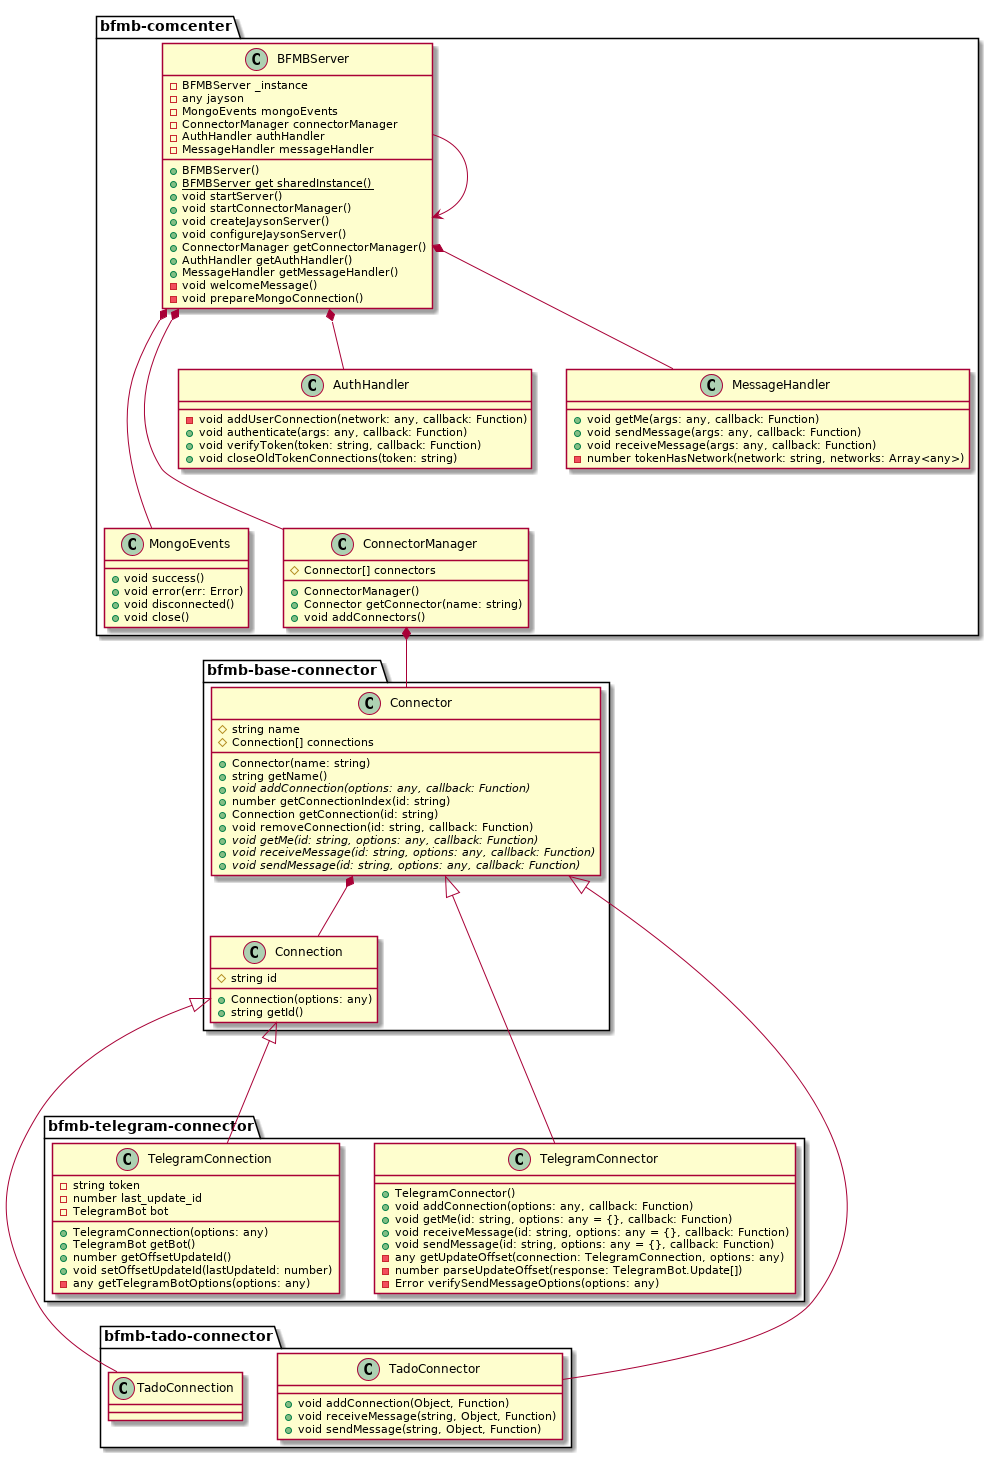
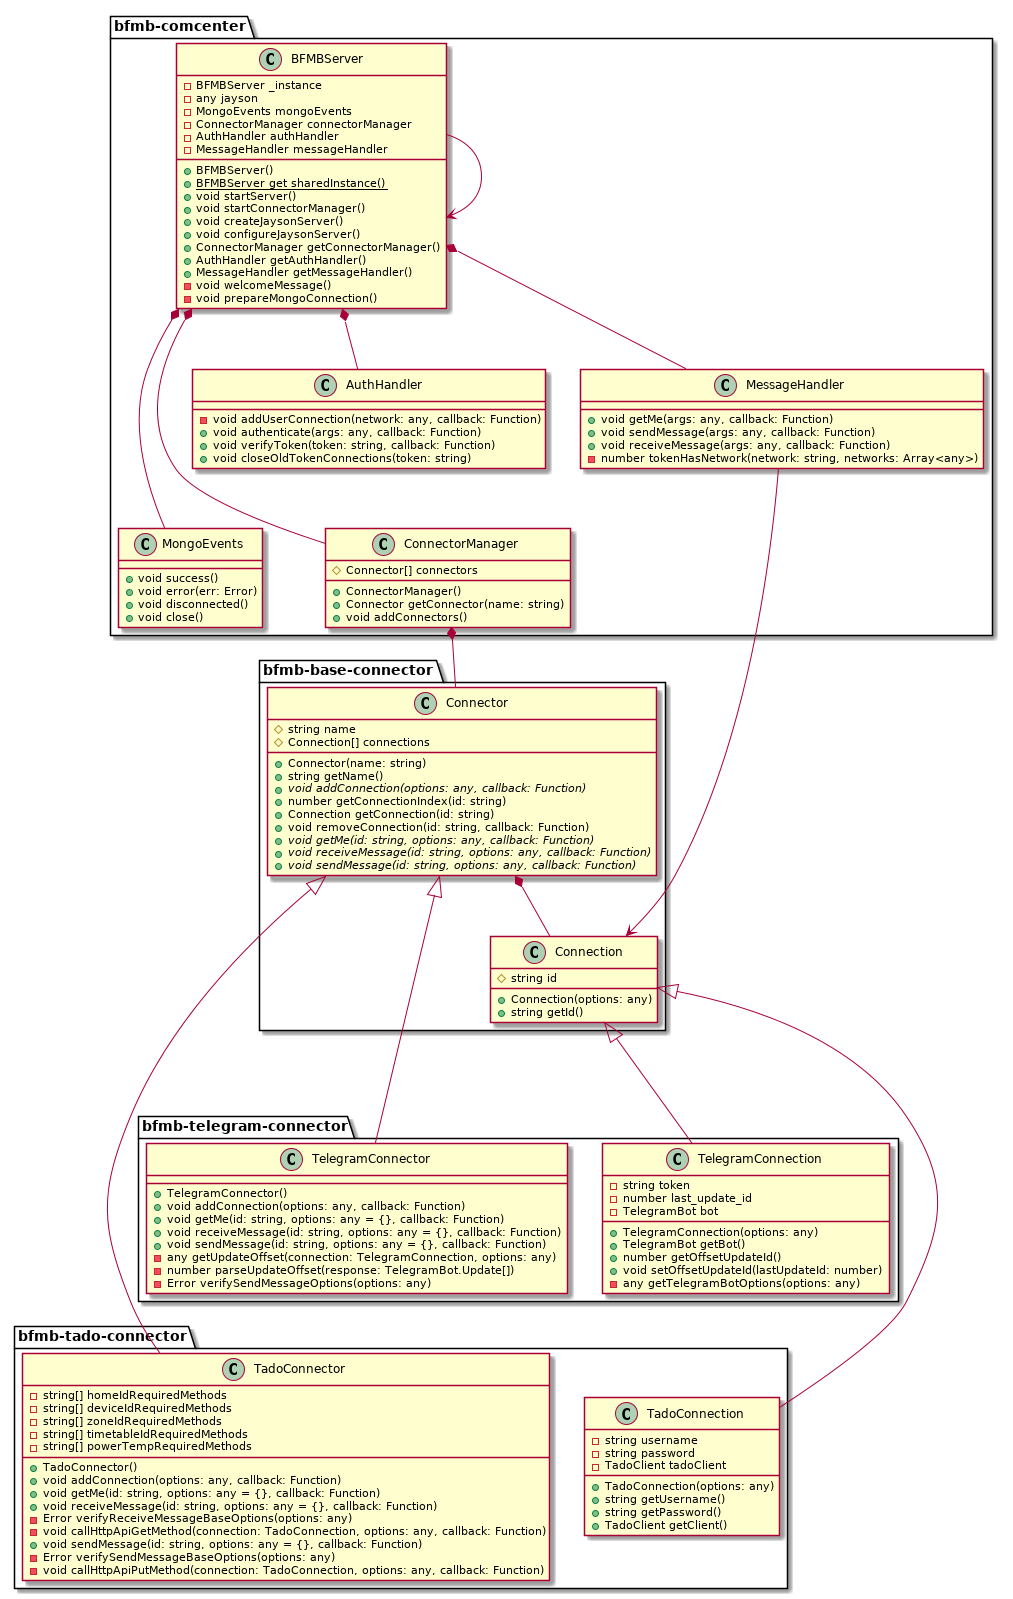
Updated class diagram

diff --git a/Redaction/Template TFM/templateTFM.tex b/Redaction/Template TFM/templateTFM.tex
@@ -68,7 +68,7 @@ TUTOR: Dr. Francisco Javier Gil Rubio
 \vspace{1.3cm}
 
 %	DATE SECTION
-{ {2018}}\\[3cm]
+{{2019}}\\[3cm]
 %	LOGO SECTION
 
 \vfill % Fill the rest of the page with whitespace
@@ -149,6 +149,20 @@ El software que realizó fue una de las primeras vías de interacción entre per
 ELIZA era un \emph{software} limitado, ya que solo fue programado para responder a ciertas palabras o frases clave. Así que lo normal era llegar a conversaciones sin sentido.
 
 \subsubsection{Actualidad: Asistentes virtuales}
+
+\subsection{Usos de los chatbots aplicados al mundo real}
+
+\subsubsection{Seguridad}
+
+Hablar sobre Negobot (chatbot para detectar presuntos pedófilos)
+
+\subsubsection{Sanidad}
+
+Hablar sobre sistemas multiagente para detección de ETS.
+
+\subsubsection{Banca}
+
+Hablar sobre Neo (Caixabank)
 
 \section{ANÁLISIS}
 
@@ -309,7 +323,7 @@ Por otra parte, el usuario realizará los siguientes casos de uso:
 \item A través de las aplicaciones que disponga cada servicio, el usuario interactúa con dichos servicios. Por ejemplo, puedo interactuar con el bot a través de un chat (Telegram) o cambiar la configuración de la calefacción (Tadoº).
 \end{itemize}
 
-Pueden ver el diagrama de casos de uso en la figura ~\ref{fig:Diagrama de casos de uso}
+Pueden ver el diagrama de casos de uso en la figura ~\ref{fig:Diagrama de casos de uso}.
 
 \begin{figure*}
 \centering
@@ -341,7 +355,7 @@ El servidor de comunicaciones es una aplicación desarrollada en el lenguaje Typ
 \item \textbf{Almacenamiento de credenciales:} Para garantizar que solo las aplicaciones autorizadas puedan usar el servidor de comunicaciones, se crean usuarios en una base de datos MongoDB. El detalle de los datos que se almacenan los mostraré en la siguiente sección pero, en resumen, el servidor almacena credenciales para acceder al servidor y los token y/o credenciales de las apis a las que debe acceder.
 \end{itemize}
 
-Pueden ver el diagrama de infraestructura en la figure ~\ref{fig:Infraestructura de nodos}
+Pueden ver el diagrama de infraestructura en la figura ~\ref{fig:Infraestructura de nodos}.
 
 \begin{figure*}
 \centering
@@ -371,6 +385,48 @@ La relación que hay entre ambos es una relación \emph{1 a n}, donde para cada 
 
 \subsection{Disposición del código}
 
+Por último, vamos a explicar la estructura de clases que existe en el framework que se ha desarrollado. Pueden ver el diagrama UML correspondiente en la figura ~\ref{fig:Diagrama de clases}.
+
+Actualmente, este framework se compone de cuatro módulos:
+
+\begin{itemize}
+\item\textbf{bfmb-comcenter:} Es el paquete que conforma el servidor de comunicaciones.
+\item\textbf{bfmb-base-connector:} Es el paquete que contiene una abstracción del conector, para así poder realizar llamadas a los conectores usando el polimorfismo\footnote{El polimorfismo es una relajación del sistema de tipos, de tal manera que una referencia a una clase acepta direcciones de objetos de dicha clase y de sus clases derivadas. \cite[Def. académica de Fernández, L.]{PgWebPolimorfismo}}.
+\item\textbf{bfmb-telegram-connector:} Es el paquete que contiene el conector correspondiente para usar con la api de Telegram.
+\item\textbf{bfmb-tado-connector:} El el paquete que contiene el conector correspondiente para usar con la api de Tadoº.
+\end{itemize}
+
+Los conectores adicionales seguirán el siguiente patrón como nombre:
+\begin{center}bfmb-<SERVICIO>-connector\end{center}
+Donde <SERVICIO> será el nombre de la api que corresponda.
+
+Ahora nos centramos en cada módulo:
+
+\subsubsection{bfmb-comcenter}
+
+El módulo bfmb-comcenter, el servidor de comunicaciones, se compone de cinco clases, las cuales explicamos a continuación:
+
+\begin{itemize}
+\item\textbf{BFMBServer:} Es la clase maestra de este módulo y quien inicia el servidor JSON-RPC. Contiene una instancia de cada clase existente en el módulo y un atributo para acceder a la biblioteca jayson, la cual es la encargada de ejecutar el servidor JSON-RPC. También tiene implementado un patrón (o antipatrón si se abusa de su uso) singleton para poder obtener la instancia activa usando un método estático.
+\item\textbf{MongoEvents:} Es la clase que contiene los métodos callback que se usan ante los eventos de la base de datos MongoDB. Con ello podemos continuar nuestro proceso si se ha logrado una conexión exitosa con la base de datos, mostrar un error en los casos no exitosos o cerrar la base de datos antes de finalizar la aplicación.
+\item\textbf{AuthHandler:} Es la clase encargada de comprobar que las aplicaciones que se conecten con el servidor de comunicaciones tengan credenciales para ello. Comprueba la existencia de los usuarios en la base de datos y si la contraseña es válida. Tras ello, genera un token de acceso para que pueda validarse sin recurrir a sus credenciales originales por un tiempo definido.
+\item\textbf{ConnectorManager:} Es la clase que contiene todos los conectores activos del servidor, donde se puede llamar al conector que corresponda a la api que solicitemos. Los conectores activos se inicializan en base a los datos de configuración, por lo que no varían en tiempo real.
+\item\textbf{MessageHandler:}Es la clase encargada de procesar los mensajes que llegan al servidor de comunicaciones y ejecutar las acciones que soliciten. Normalmente esta clase busca el conector que corresponda con el servicio donde debe ejecutarse la orden y solicita la conexión que corresponde con su usuario, donde se la envía los datos para dicha api.
+\end{itemize}
+
+\subsubsection{bfmb-base-connector}
+
+El módulo bfmb-base-connector es un módulo que contiene dos clases abstractas, cuyo objetivo es poder realizar polimorfismo entre las clases del servidor de comunicaciones y las clases de cada uno de los conectores de servicio. Se compone de dos clases:
+
+\begin{itemize}
+\item\textbf{Connector:} Es el gestor de la conexiones con la api que gestiona. Almacena n objetos conexión. Esta clase es abstracta y la usan los módulos conectores como clase padre en herencia.
+\item\textbf{Connection:} Es la clase que define la conexión con la api. También es una clase abstracta, la cual usan los módulos conectores como clase padre. También sirve para poder realizar polimorfismo desde el servidor de comunicaciones.
+\end{itemize}
+
+\subsubsection{bfmb-telegram-connector y bfmb-tado-connector}
+
+Los restantes módulos son los conectores con los que podremos conectarnos con las api de los distintos servicios en la red. Ambos módulos contienen como mínimo dos clases: conector (Connector) y conexión (Conection). Estos son clases hija de las clases Connector y Connection del módulo bfmb-base-connector.
+
 \begin{figure*}
 \centering
 	\includegraphics[width=\textwidth]{recursos/classes}
@@ -392,7 +448,22 @@ Typescript es un lenguaje de programación que es un superconjunto de Javascript
 
 \subsubsection{MongoDB}
 
+MongoDB es un motor de base de datos orientado a documento. Se encuentra clasificado como una base de datos NoSQL, donde se usa una variante de JSON\footnote{Javascript Object Notation} como formato de documento.
+
+\subsubsection{NodeJS}
+
+NodeJS es un entorno de ejecución multiplataforma que permite ejecutar código escrito en Javascript fuera del entorno del navegador.
+
 \subsubsection{Jayson}
+
+Jayson es un módulo de NodeJS que se compone de un servidor y un cliente que cumplen con la especificación JSON-RPC 2.0, aunque también es compatible con la versión 1.0. Dispone de estas funcionalidades:
+
+\begin{itemize}
+\item Puede iniciar múltiples interfaces de red en el mismo proceso. Es decir, se puede iniciar un servidor que escuche el protocolo TCP y, a la vez, escuchar el protocolo HTTPS.
+\item Soporta los protocolos TCP, HTTP y sus equivalentes seguros (TLS sobre TCP y HTTPS).
+\item Permite el enrutamiento previo de métodos RPC. Por ejemplo, si tenemos una función que sume dos números y queremos hacer un método que añada dos a un valor numérico podremos utilizar el enrutamiento para llamar al método de suma en su lugar. Actualmente, mi proyecto no usa esta funcionalidad.
+\item Dispone de un cliente que se puede ejecutar directamente desde la terminal / consola de comandos.
+\end{itemize}
 
 \subsubsection{Api de Telegram}
 
@@ -404,6 +475,21 @@ Typescript es un lenguaje de programación que es un superconjunto de Javascript
 
 \section{MANUAL DE USUARIO}
 
+\subsection{Instalación}
+
+\subsubsection{Prerrequisitos}
+
+Para poder trabajar con este framework se necesitan los siguientes requisitos software:
+
+\begin{itemize}
+\item Sistema operativo GNU/Linux (No puedo garantizar que funcione en otros sistemas operativos pero ningún requisito lo impide)
+\item NodeJS (versión 8.16).
+\item Base de datos MongoDB instalado o un acceso a un servidor con dicho motor de base de datos.
+\item Conexión a Internet (necesario para interactuar con las apis disponibles).
+\end{itemize}
+
+
+
 \section{CONCLUSIONES}
 
 \section{LÍNEAS FUTURAS}
@@ -413,7 +499,9 @@ Tras el desarrollo actual y los resultados dados, se puede ver que hay distintas
 \begin{itemize}
 \item Cambiar el motor de base de datos usando en el servidor de comunicaciones. 
 
-Actualmente se usa MongoDB por conveniencia en el desarrollo del proyecto final de grado, pero sería más apropiado usar bases de datos portables como SQLite y evitar la instalación de un servidor adicional para el poco volumen de información que tiene que almacenar, aunque eso conlleve la modificación de parte del código fuente para pasar de una tecnología NoSQL a SQL.
+Actualmente se usa MongoDB por conveniencia en el desarrollo del proyecto final de grado (el uso de la biblioteca mongoose ayudó mucho), pero sería más apropiado usar bases de datos portables como SQLite y evitar la instalación de un servidor adicional para el poco volumen de información que tiene que almacenar, aunque eso conlleve la modificación de parte del código fuente para pasar de un motor de base de datos a otro.
+
+Otro motivo para abrir esta línea de cambiar la base de datos es porque, en base a informaciones del entorno open source / software libre, se comenta que MongoDB ha intentado modificar su licencia software y está generando rechazo en la comunidad, incluyendo que ciertas distribuciones (Fedora y Debian) estén eliminando o planteando que se elimine este software de sus repositorios. \cite{MongoDBLicense}
 
 \item Incorporar un gestor web de usuarios para el servidor de comunicaciones.
 
@@ -458,6 +546,12 @@ Ahora mismo, debido a problemas de tiempo de desarrollo, el bot realizado para e
 \bibitem{TelegramLogin} \textsc{Telegram} \textit{Telegram Login for Websites}, \url{https://telegram.org/blog/login}, [Visitado el 19/4/2019]
 
 \bibitem{FrameworkJJG} \textsc{J. Gutiérrez, J.} \textit{¿Qué es un framework web?}, \url{http://www.lsi.us.es/~javierj/investigacion_ficheros/Framework.pdf}, [Visitado el 5/5/2019]
+
+\bibitem{PgWebPolimorfismo} \textsc{Álvarez, M.Á.} \textit{Polimorfismo en Programación Orientada a Objetos}, \url{https://desarrolloweb.com/articulos/polimorfismo-programacion-orientada-objetos-concepto.html}, [Visitado el 12/5/2019]
+
+\bibitem{Jayson} \textsc{Lundgren, T. y otros} \textit{Jayson is a simple but featureful JSON-RPC 2.0/1.0 client and server for node.js}, \url{https://github.com/tedeh/jayson/blob/master/README.md}, [Visitado el 8/5/2019]
+
+\bibitem{MongoDBLicense} \textsc{MuyLinux} \textit{MongoDB pincha en hueso: nadie acepta su nueva licencia}, \url{https://www.muylinux.com/2019/01/17/mongodb-rechazo-nueva-licencia/}, [Visitado el 12/5/2019]
 \end{thebibliography}
 \end{document}
 
